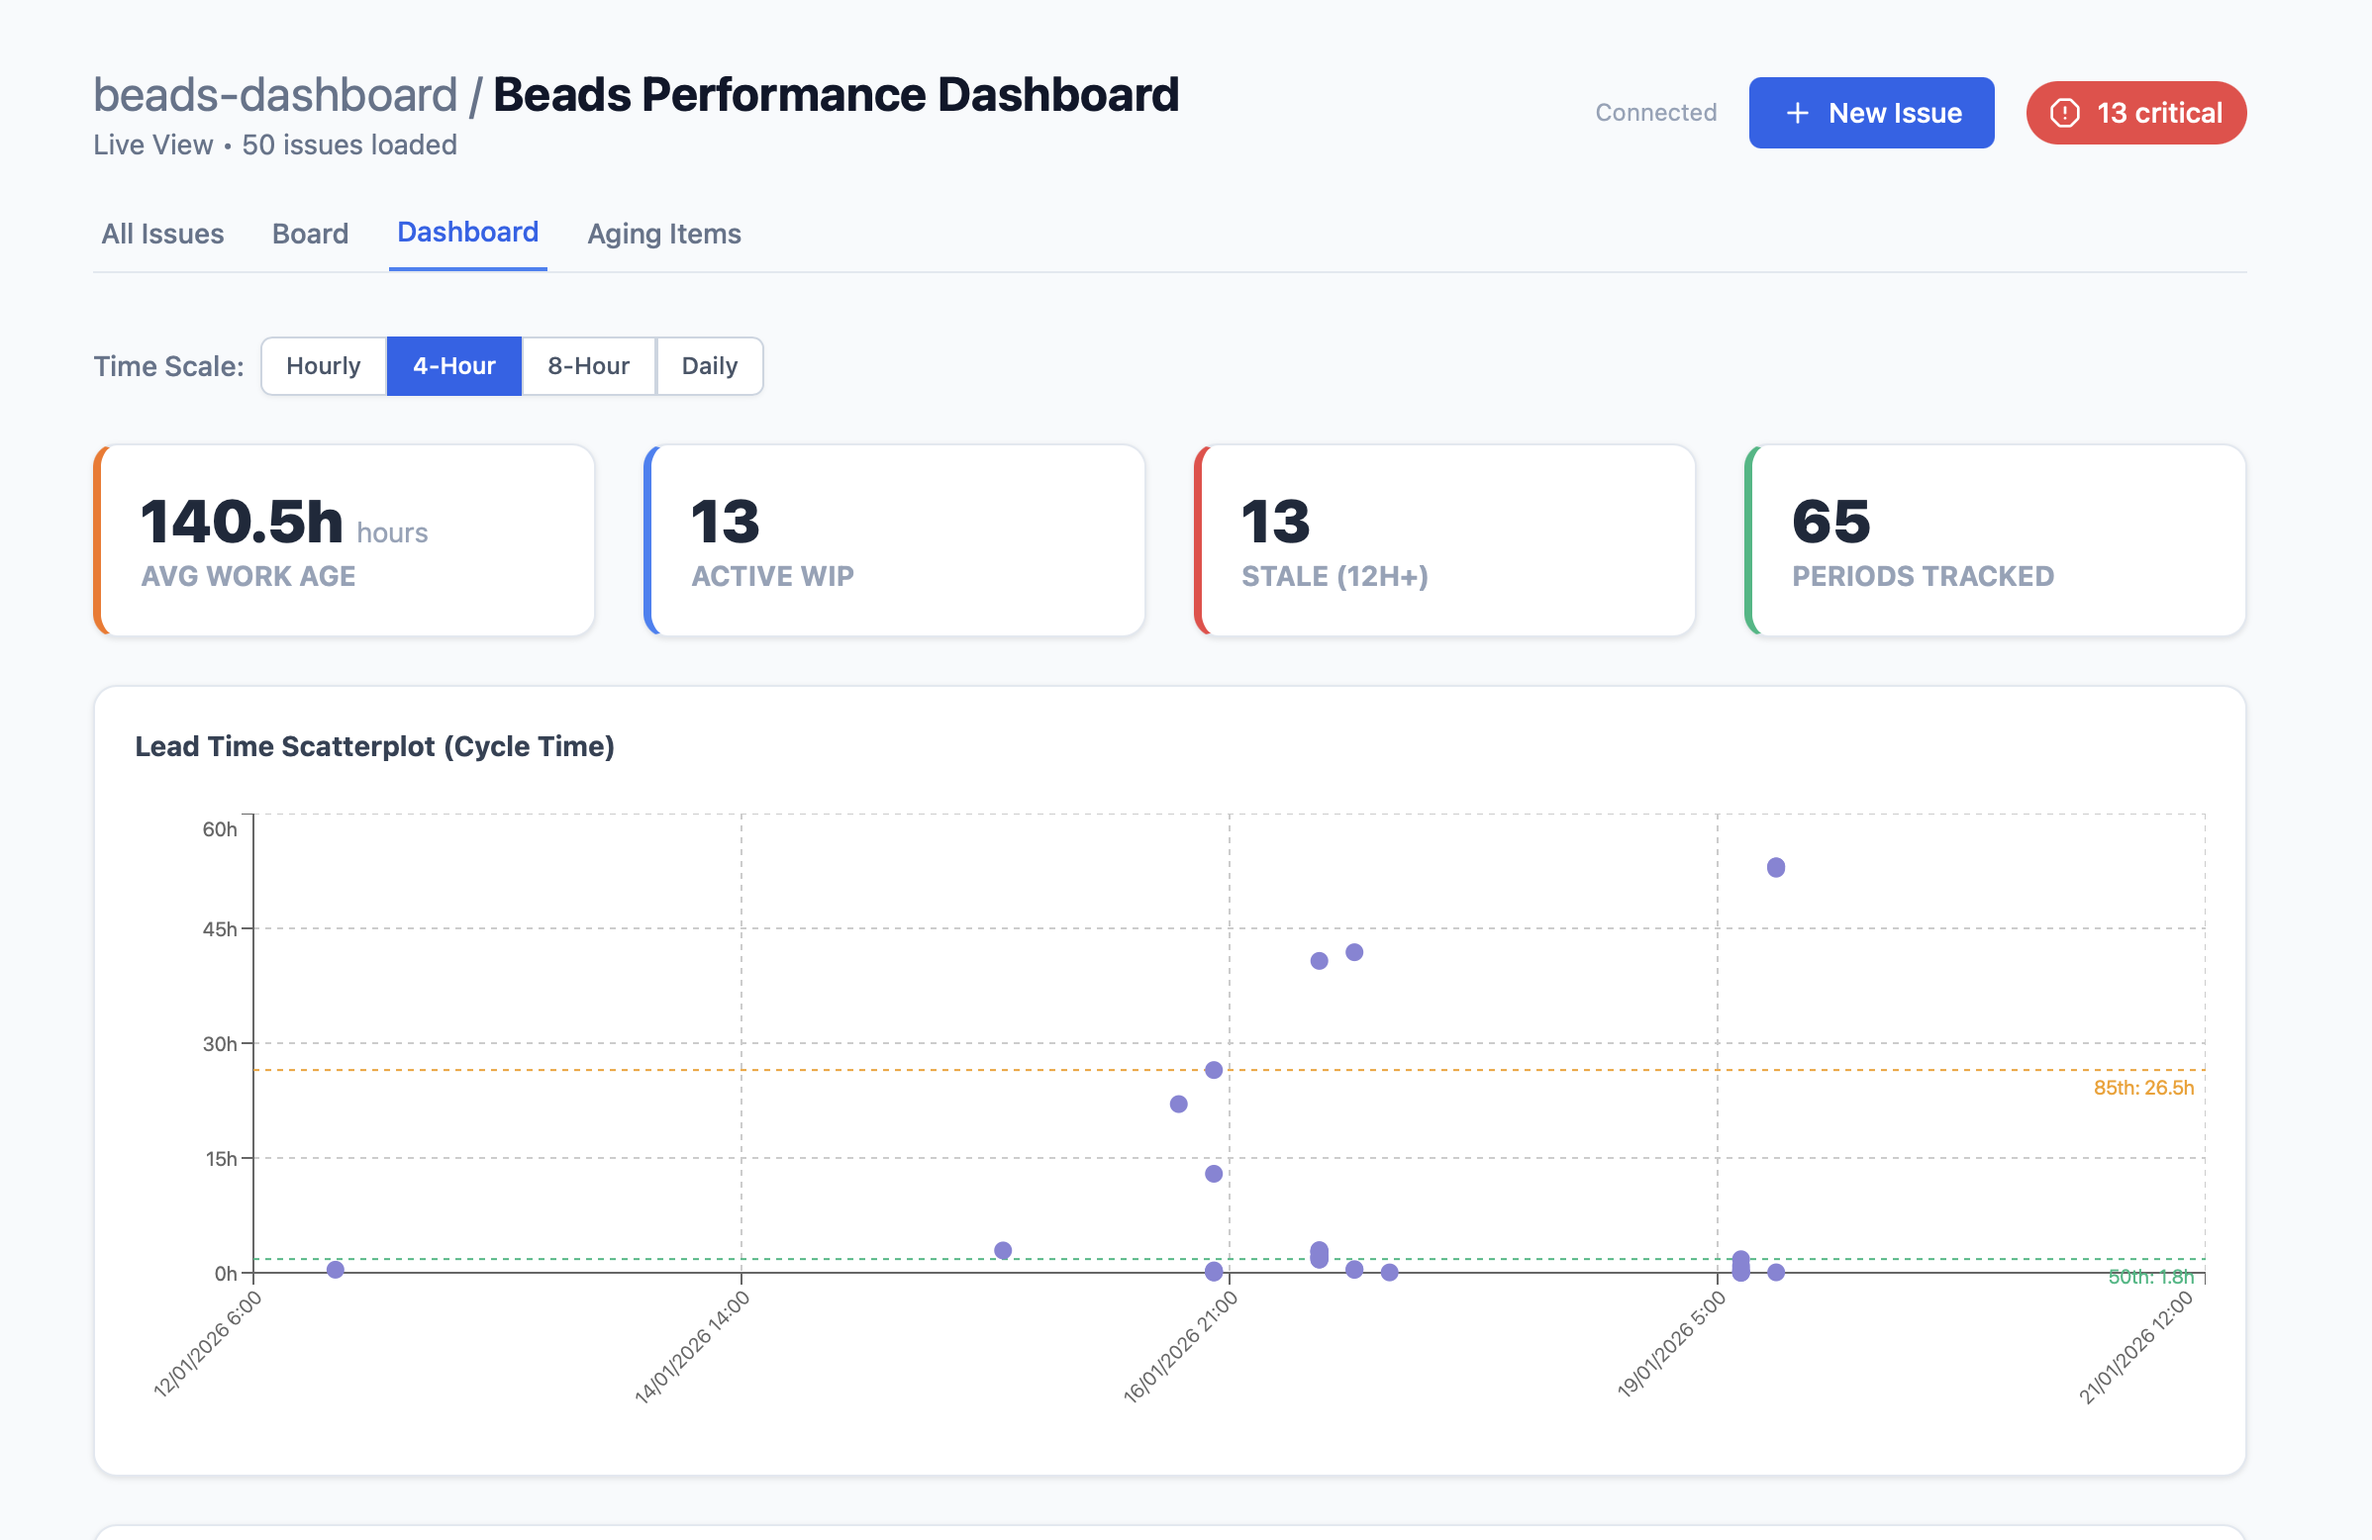
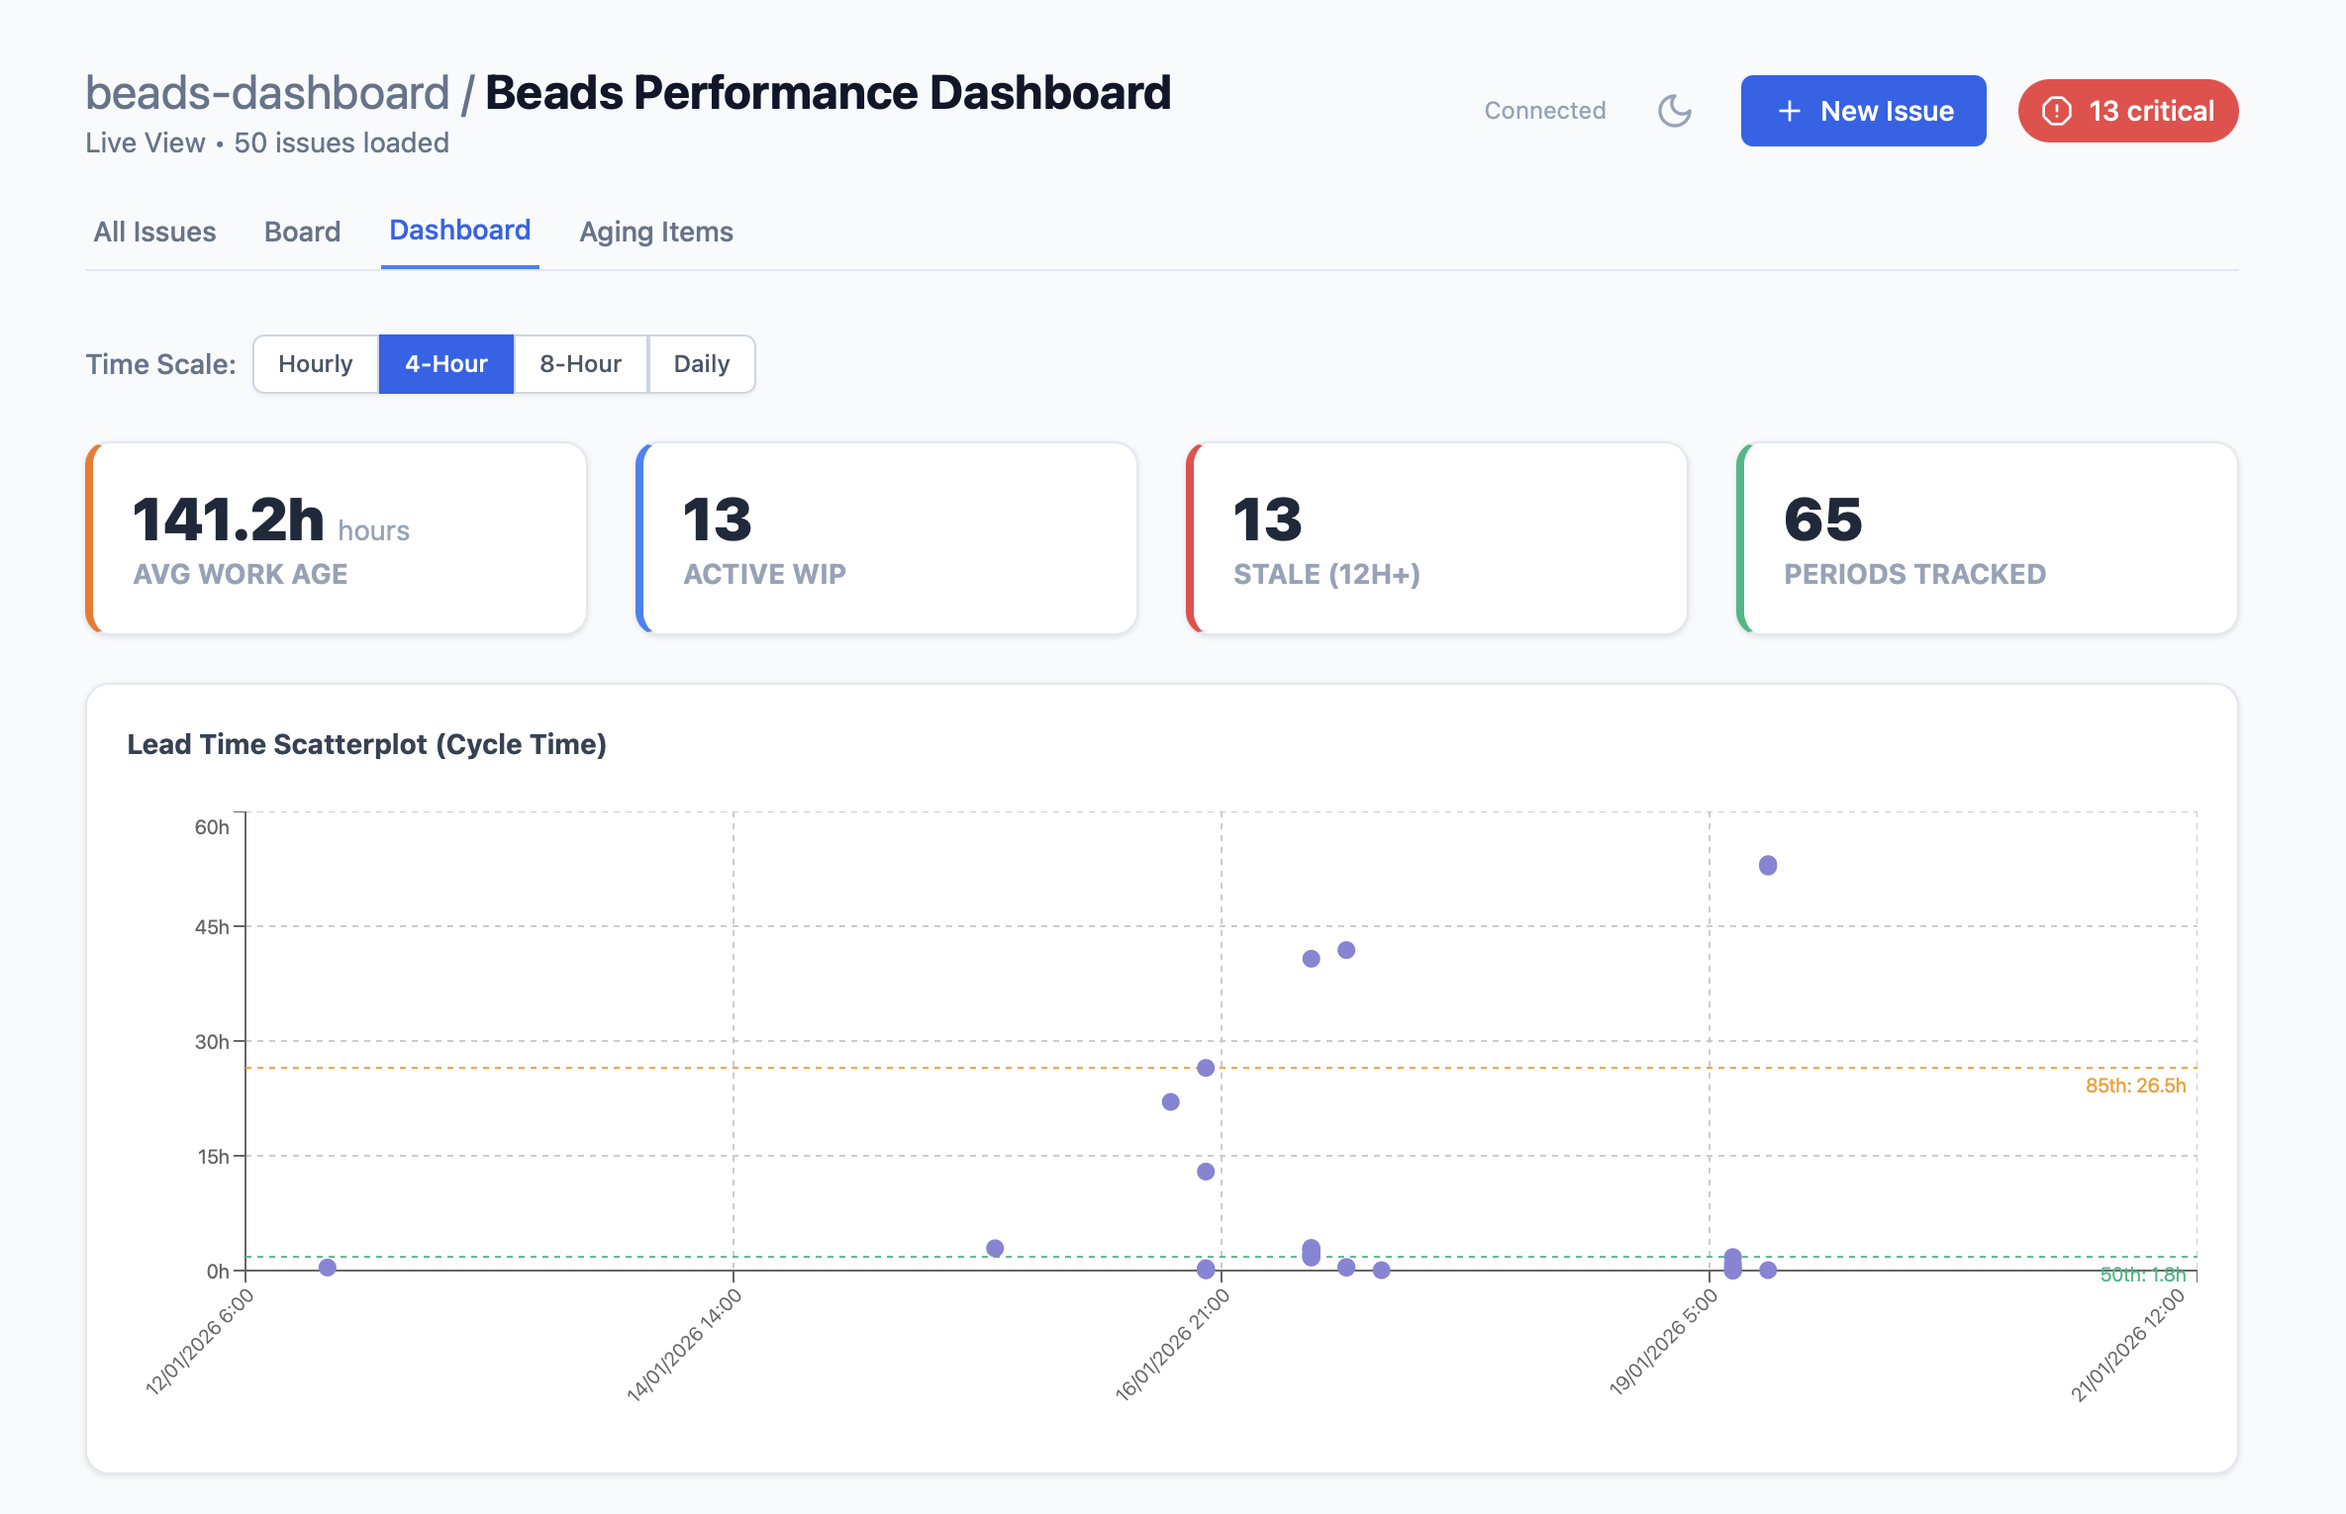
docs: fix dev server instructions and add dev:server script
- Update README to correctly document how to run dashboard against different projects
- Add separate dev:server script to enable running backend with custom directory
- Fix TypeScript errors (unused parameters in file watcher)
- Update screenshots

Fixes #3

diff --git a/src/server/index.ts b/src/server/index.ts
@@ -77,7 +77,7 @@ if (beadsDirectoryExists(projectRoot)) {
     console.log('File watcher ready');
   });
 
-  watcher.on('all', (event, filePath) => {
+  watcher.on('all', () => {
     // Database changed - this catches manual bd CLI updates outside the dashboard
     io.emit('refresh');
   });

diff --git a/README.md b/README.md
@@ -110,11 +110,17 @@ Opens at: http://localhost:3001
 Point the dashboard to any directory containing a `.beads` folder:
 
 ```bash
-# Development mode
-npm run dev -- /path/to/your/project
-
-# Production mode
+# Production mode (recommended for viewing other projects)
+npm run build
 npm start -- /path/to/your/project
+
+# Development mode (requires two terminals for HMR)
+# Terminal 1: Frontend
+npm run vite
+
+# Terminal 2: Backend
+npm run dev:server -- /path/to/your/project
+# Then visit http://localhost:3000
 ```
 
 ## Development
